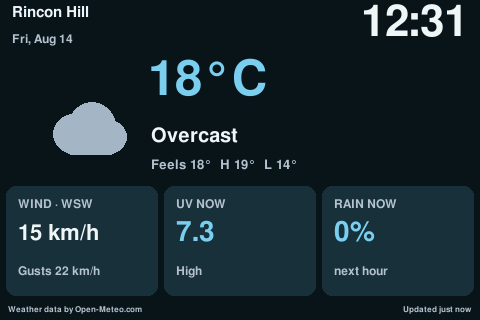
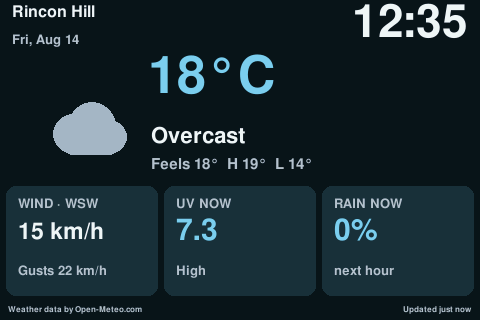
Increase dashboard typography further

diff --git a/weather_display/renderer.py b/weather_display/renderer.py
@@ -29,7 +29,7 @@ THEMES = {
 class DashboardRenderer:
     def __init__(self, surface: pygame.Surface):
         self.surface = surface
-        self.fonts = {size: pygame.font.Font(None, size) for size in (13, 16, 18, 20, 22, 24, 28, 30, 32, 34, 42, 48, 64, 72)}
+        self.fonts = {size: pygame.font.Font(None, size) for size in (13, 16, 18, 20, 22, 24, 28, 30, 32, 34, 44, 48, 68, 76)}
         for size, font in self.fonts.items():
             font.set_bold(size >= 18)
         self._icon_cache: dict[tuple, pygame.Surface] = {}
@@ -42,10 +42,10 @@ class DashboardRenderer:
         self.theme = _theme_for(icon_name)
         self.surface.fill(self.theme["bg"])
         local = local_datetime(now, settings.timezone)
-        self._text(_truncate(settings.location_label, 20), 22, TEXT, (12, 5))
-        self._text(local.strftime("%a, %b %-d"), 18, MUTED, (12, 33))
+        self._text(_truncate(settings.location_label, 18), 24, TEXT, (12, 4))
+        self._text(local.strftime("%a, %b %-d"), 20, MUTED, (12, 33))
         clock = format_clock(now, settings.timezone, settings.clock_format)
-        clock_font = 48 if settings.clock_format == "12h" else 64
+        clock_font = 48 if settings.clock_format == "12h" else 68
         self._text(clock, clock_font, TEXT, (468, 0), anchor="topright")
 
         if weather is None:
@@ -56,11 +56,11 @@ class DashboardRenderer:
         else:
             condition, icon = condition_for(weather.weather_code, weather.is_day)
             self._draw_icon(icon, (36, 80), 98)
-            self._text(f"{rounded(weather.temperature)}{weather.temperature_unit}", 72, self.theme["accent"], (148, 55))
-            self._text(condition, 30, TEXT, (151, 126))
+            self._text(f"{rounded(weather.temperature)}{weather.temperature_unit}", 76, self.theme["accent"], (148, 51))
+            self._text(condition, 32, TEXT, (151, 125))
             secondary = (f"Feels {rounded(weather.apparent_temperature)}°  "
                          f"H {rounded(weather.high)}°  L {rounded(weather.low)}°")
-            self._text(secondary, 20, MUTED, (151, 158))
+            self._text(secondary, 22, MUTED, (151, 157))
             self._draw_cards(weather)
 
         fetched = _parse_time(weather.fetched_at) if weather else None
@@ -79,22 +79,22 @@ class DashboardRenderer:
         for rect in cards:
             pygame.draw.rect(self.surface, self.theme["card"], rect, border_radius=10)
         if not weather:
-            self._text("WIND", 18, MUTED, (18, 198))
-            self._text("UV NOW", 18, MUTED, (176, 198))
-            self._text("RAIN NOW", 18, MUTED, (334, 198))
-            for x in (18, 176, 334): self._text("—", 42, TEXT, (x, 222))
+            self._text("WIND", 20, MUTED, (18, 197))
+            self._text("UV NOW", 20, MUTED, (176, 197))
+            self._text("RAIN NOW", 20, MUTED, (334, 197))
+            for x in (18, 176, 334): self._text("—", 44, TEXT, (x, 220))
             return
         wind = f"{rounded(weather.wind_speed)} {weather.wind_unit}"
         direction = compass_direction(weather.wind_direction)
-        self._text(f"WIND · {direction}", 18, MUTED, (18, 198))
-        self._text("UV NOW", 18, MUTED, (176, 198))
-        self._text("RAIN NOW", 18, MUTED, (334, 198))
-        self._text(wind, 32 if len(wind) < 10 else 28, TEXT, (18, 222))
-        self._text(f"Gusts {rounded(weather.wind_gusts)} {weather.wind_unit}", 18, MUTED, (18, 265))
-        self._text(str(round(weather.uv_index, 1)), 42, self.theme["accent"], (176, 218))
-        self._text(uv_risk(weather.uv_index), 18, MUTED, (176, 265))
-        self._text(f"{weather.precipitation_probability}%", 42, self.theme["accent"], (334, 218))
-        self._text("next hour", 18, MUTED, (334, 265))
+        self._text(f"WIND · {direction}", 20, MUTED, (18, 197))
+        self._text("UV NOW", 20, MUTED, (176, 197))
+        self._text("RAIN NOW", 20, MUTED, (334, 197))
+        self._text(wind, 34 if len(wind) < 10 else 30, TEXT, (18, 220))
+        self._text(f"Gusts {rounded(weather.wind_gusts)} {weather.wind_unit}", 20, MUTED, (18, 264))
+        self._text(str(round(weather.uv_index, 1)), 44, self.theme["accent"], (176, 216))
+        self._text(uv_risk(weather.uv_index), 20, MUTED, (176, 264))
+        self._text(f"{weather.precipitation_probability}%", 44, self.theme["accent"], (334, 216))
+        self._text("next hour", 20, MUTED, (334, 264))
 
     def _text(self, value: str, size: int, color: tuple[int, int, int], pos: tuple[int, int], anchor="topleft"):
         rendered = self.fonts[size].render(str(value), True, color)
